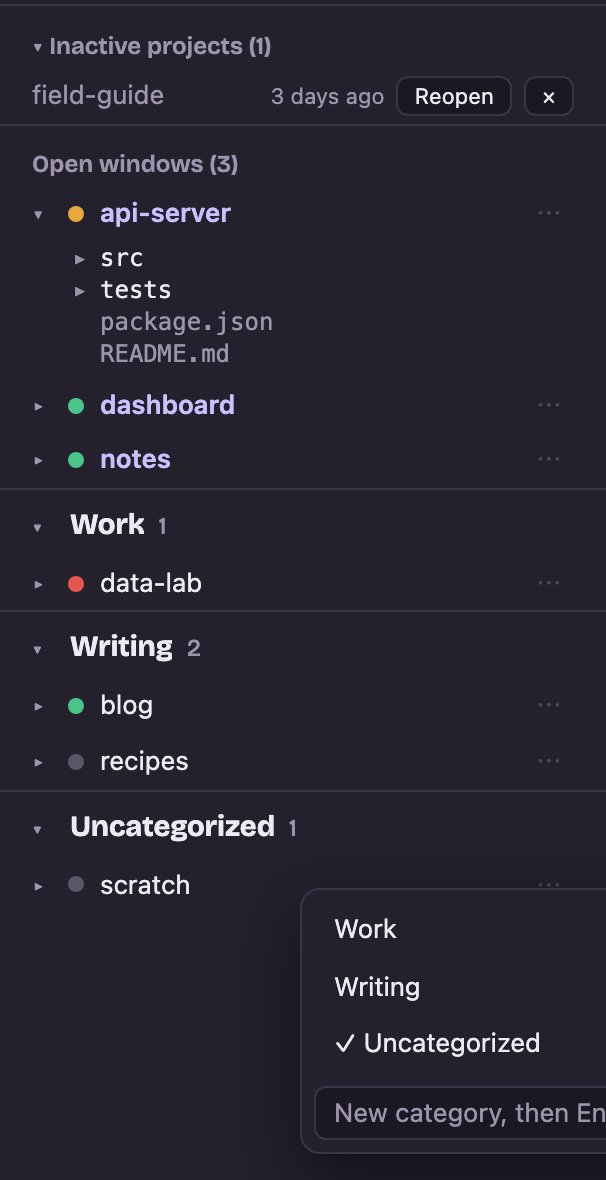
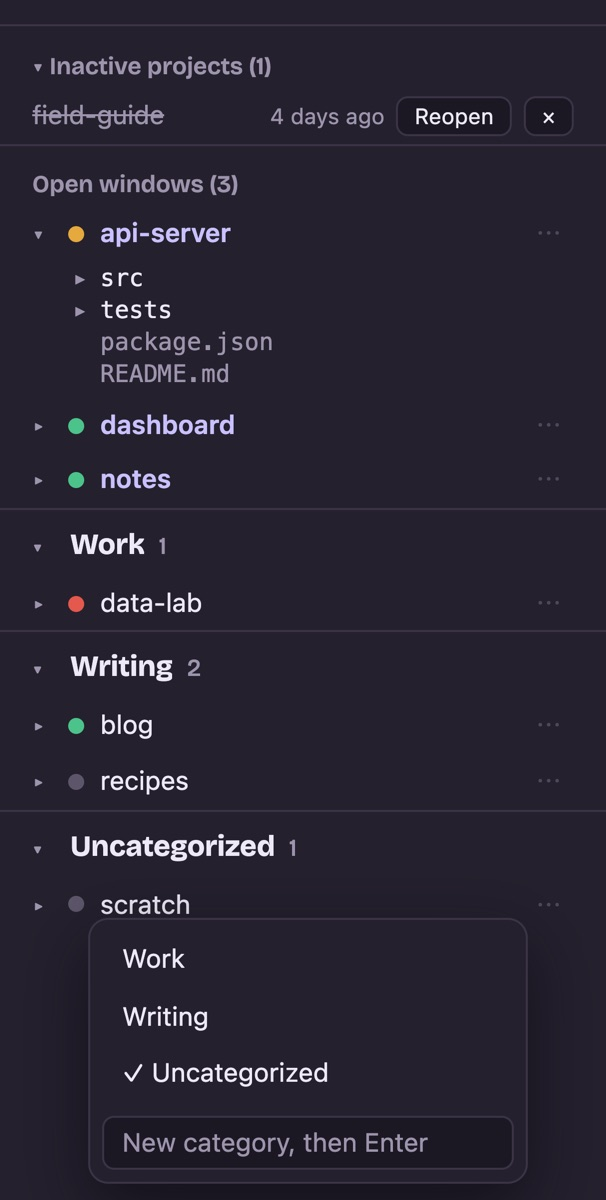
Site: retake the sidebar screenshot so its menu is not cut off
The right-click menu ran past the edge of the old crop, which cut off
"New category, then Enter". The menu now opens inside the sidebar.

Claude-Session: https://claude.ai/code/session_01A6N2menxkiXjtssBJSs2JP

diff --git a/docs/index.html b/docs/index.html
@@ -318,7 +318,7 @@
           </ul>
         </div>
         <div class="frame narrow">
-          <img src="img/sidebar.jpg" width="606" height="1180" loading="lazy"
+          <img src="img/sidebar.jpg" width="606" height="1200" loading="lazy"
                alt="The Corral sidebar: an inactive project with a Reopen button, open windows with an expanded file tree, categories named Work and Writing, and a right-click menu for moving the scratch space into a category.">
         </div>
       </div>
